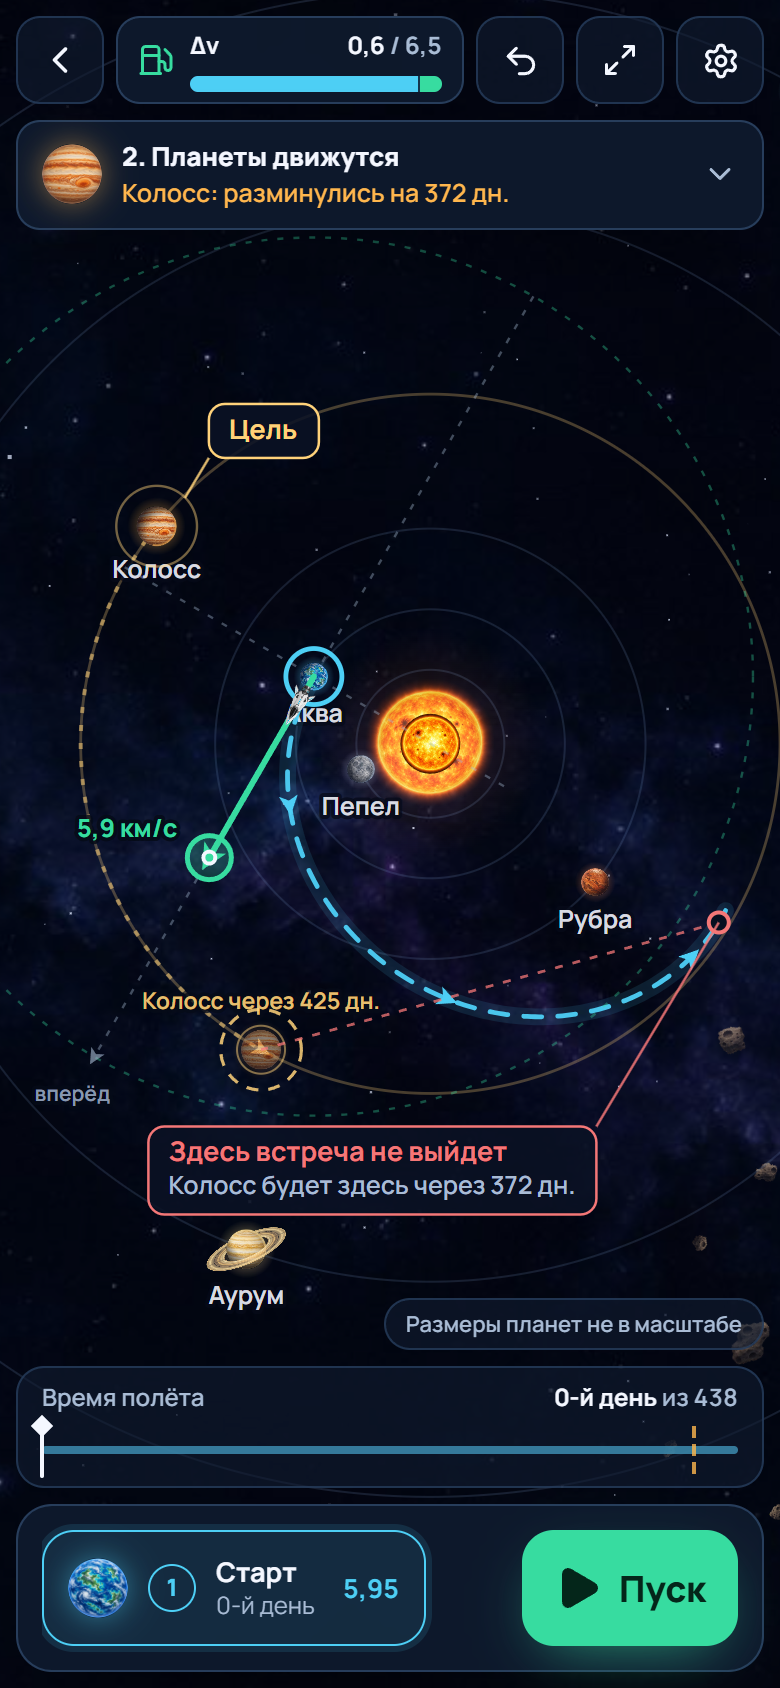
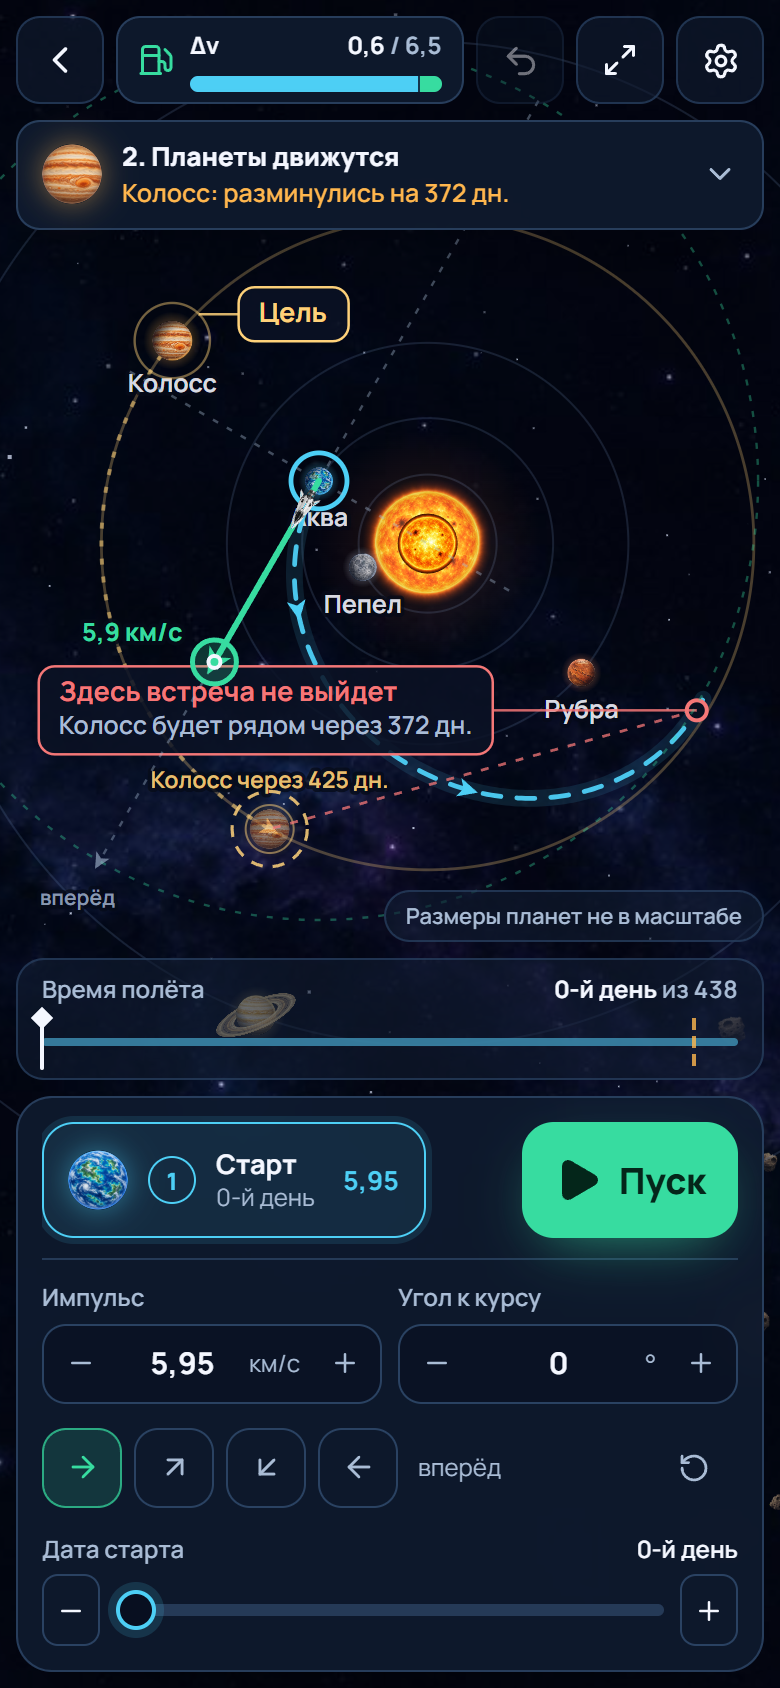
Refresh screenshots with the auto flight camera

diff --git a/tools/screenshots.ts b/tools/screenshots.ts
@@ -77,10 +77,10 @@ async function run() {
   await wait(desk, 400)
   await desk.evaluate(() => {
     const w = globalThis as unknown as Win
-    w.__clock.seek(7.36)
-    w.__game.getState().setFlightPlaying(false)
+    w.__clock.seek(7.25)
+    w.__game.getState().setFlightSpeed(1)
   })
-  await wait(desk, 1500)
+  await wait(desk, 2600)
   await shoot(desk, 'desktop-4-flight')
   await desk.evaluate(() => {
     const w = globalThis as unknown as Win
@@ -101,10 +101,10 @@ async function run() {
   await wait(phone, 400)
   await phone.evaluate(() => {
     const w = globalThis as unknown as Win
-    w.__clock.seek(9.2)
-    w.__game.getState().setFlightPlaying(false)
+    w.__clock.seek(9.15)
+    w.__game.getState().setFlightSpeed(1)
   })
-  await wait(phone, 1500)
+  await wait(phone, 2600)
   await shoot(phone, 'phone-3-flight')
 
   await browser.close()
